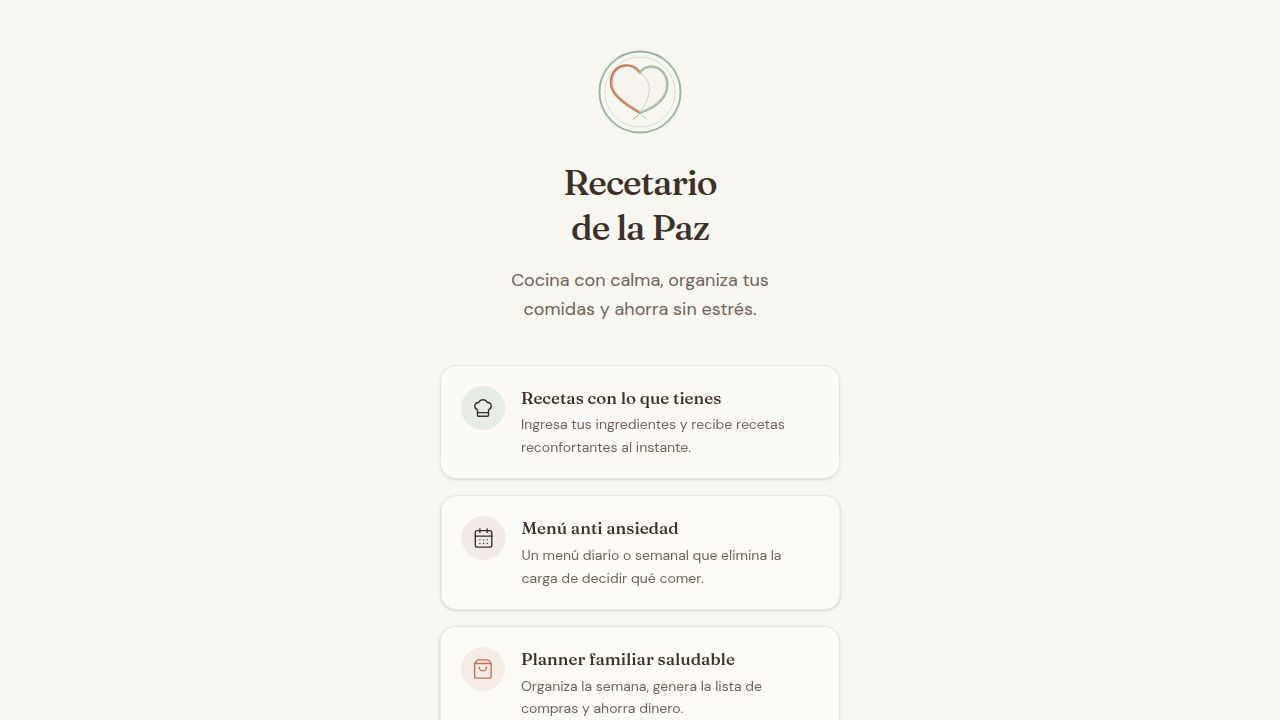
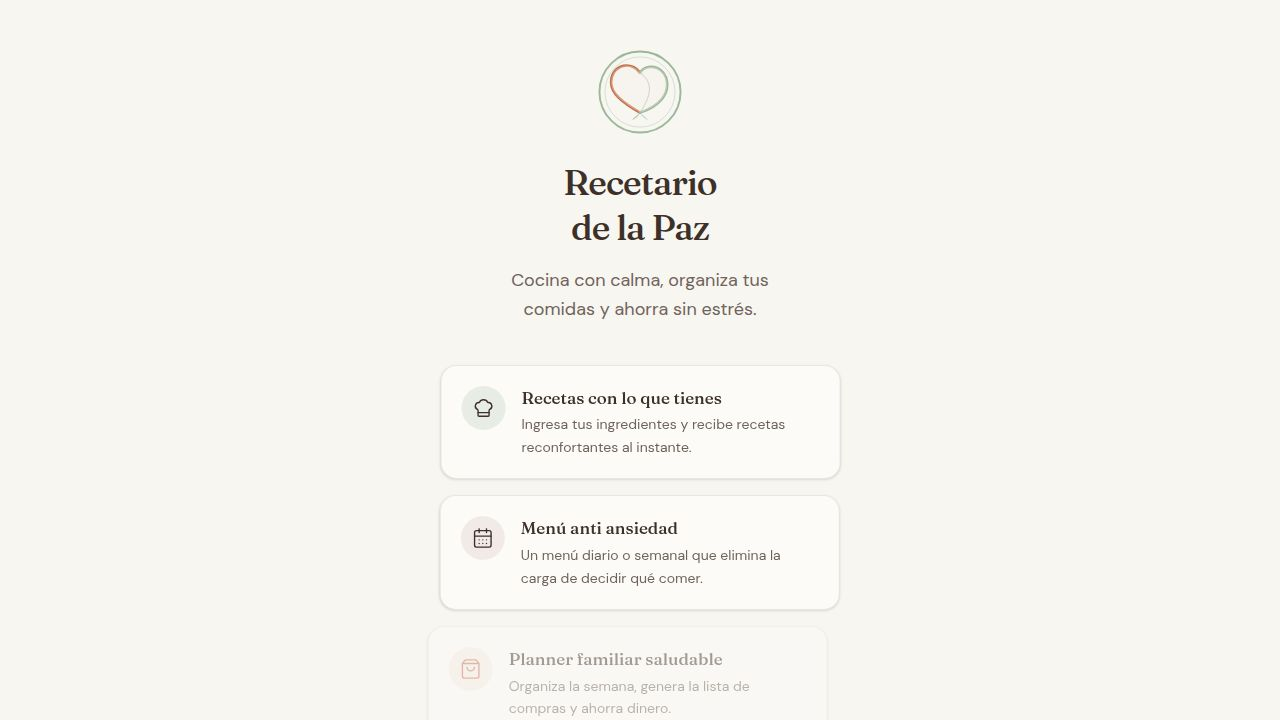
Fix error when generating recipes by preserving headers
Correctly pass headers to API requests by converting Headers objects to plain objects before spreading to ensure Content-Type is preserved.

Replit-Commit-Author: Agent
Replit-Commit-Session-Id: 3c607250-3d7d-48e0-b396-71dd9983f7df
Replit-Commit-Checkpoint-Type: full_checkpoint
Replit-Commit-Event-Id: d09fb278-e731-4627-a565-07ec2dc15b0c
Replit-Commit-Screenshot-Url: https://storage.googleapis.com/screenshot-production-us-central1/0ab6a9b2-f4f7-428a-8a04-e97df615e3e8/3c607250-3d7d-48e0-b396-71dd9983f7df/vv8IZTH
Replit-Helium-Checkpoint-Created: true

Changed region(s): [[0.3438, 0.8861, 0.5938, 1.0], [0.4062, 0.55, 0.625, 0.6417], [0.4062, 0.7333, 0.5938, 0.825]]

diff --git a/artifacts/recetario/src/context/auth.tsx b/artifacts/recetario/src/context/auth.tsx
@@ -60,9 +60,17 @@ export function AuthProvider({ children }: { children: ReactNode }) {
       const isApi = url.includes("/api/") && !url.includes("/api/waitlist");
 
       if (tok && isApi) {
+        // Convert Headers instance to plain object so spread works correctly.
+        // Spreading a Headers object yields {} because its entries are not
+        // enumerable via the spread operator.
+        const existing: Record<string, string> =
+          init.headers instanceof Headers
+            ? Object.fromEntries(init.headers.entries())
+            : (init.headers as Record<string, string>) ?? {};
+
         init = {
           ...init,
-          headers: { Authorization: `Bearer ${tok}`, ...(init.headers ?? {}) },
+          headers: { Authorization: `Bearer ${tok}`, ...existing },
         };
       }
 